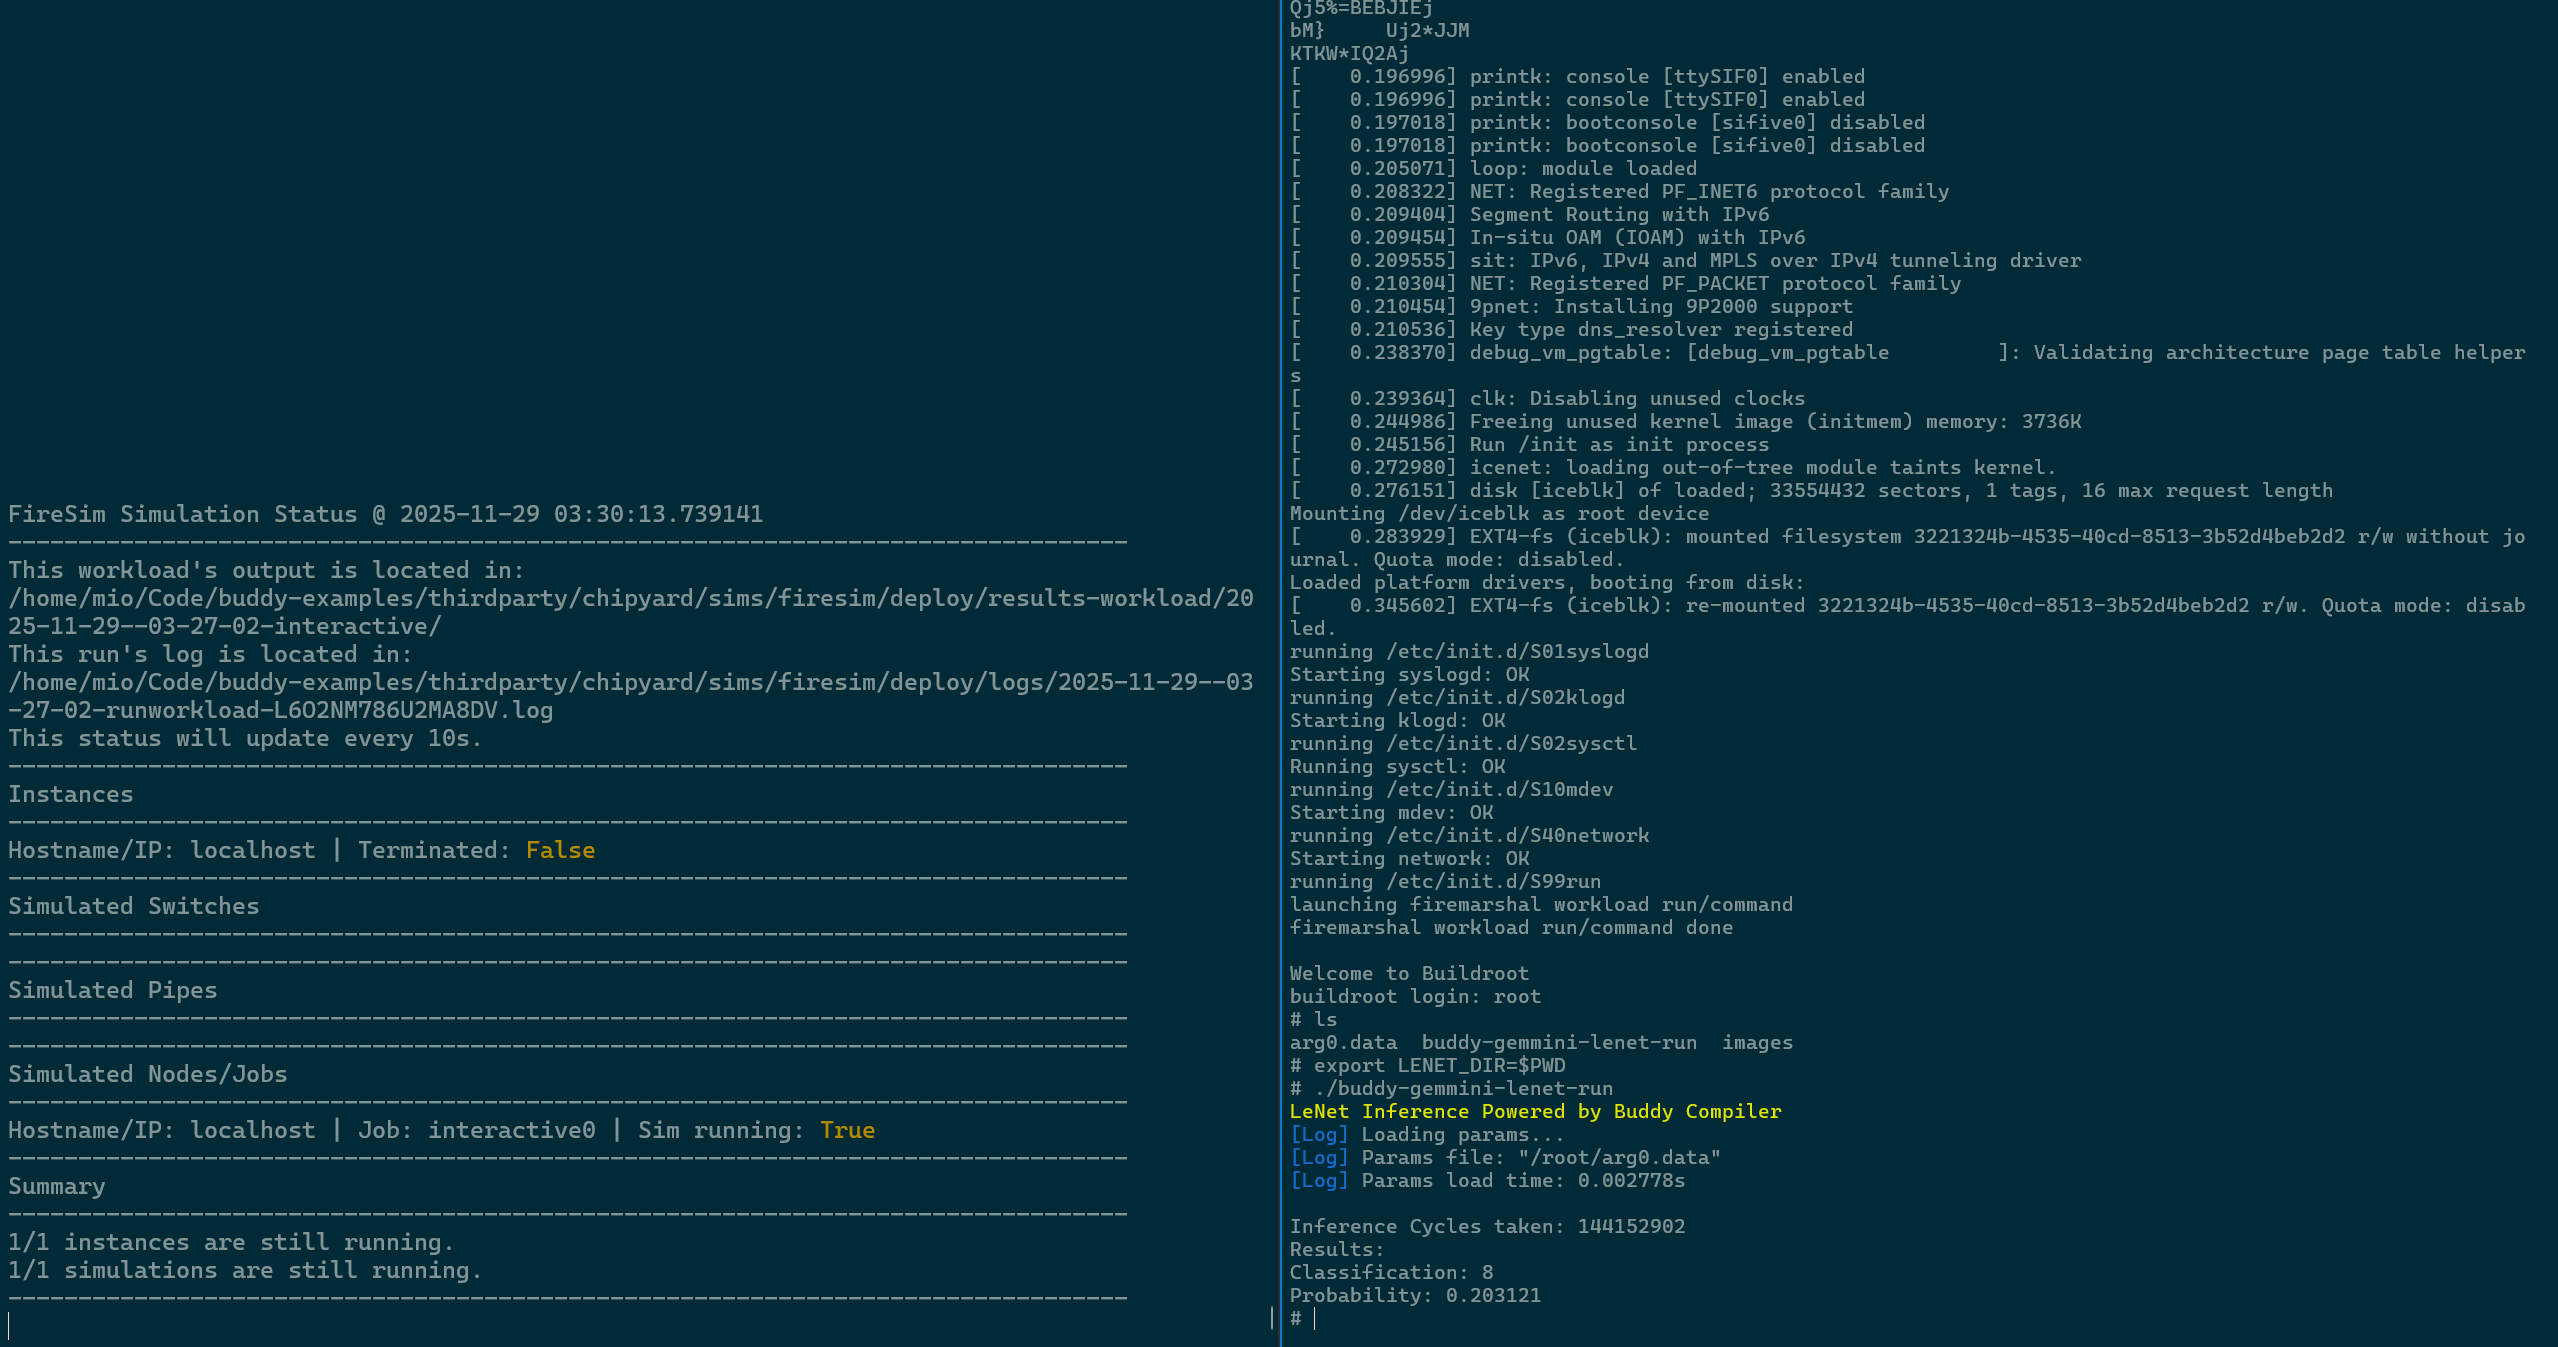
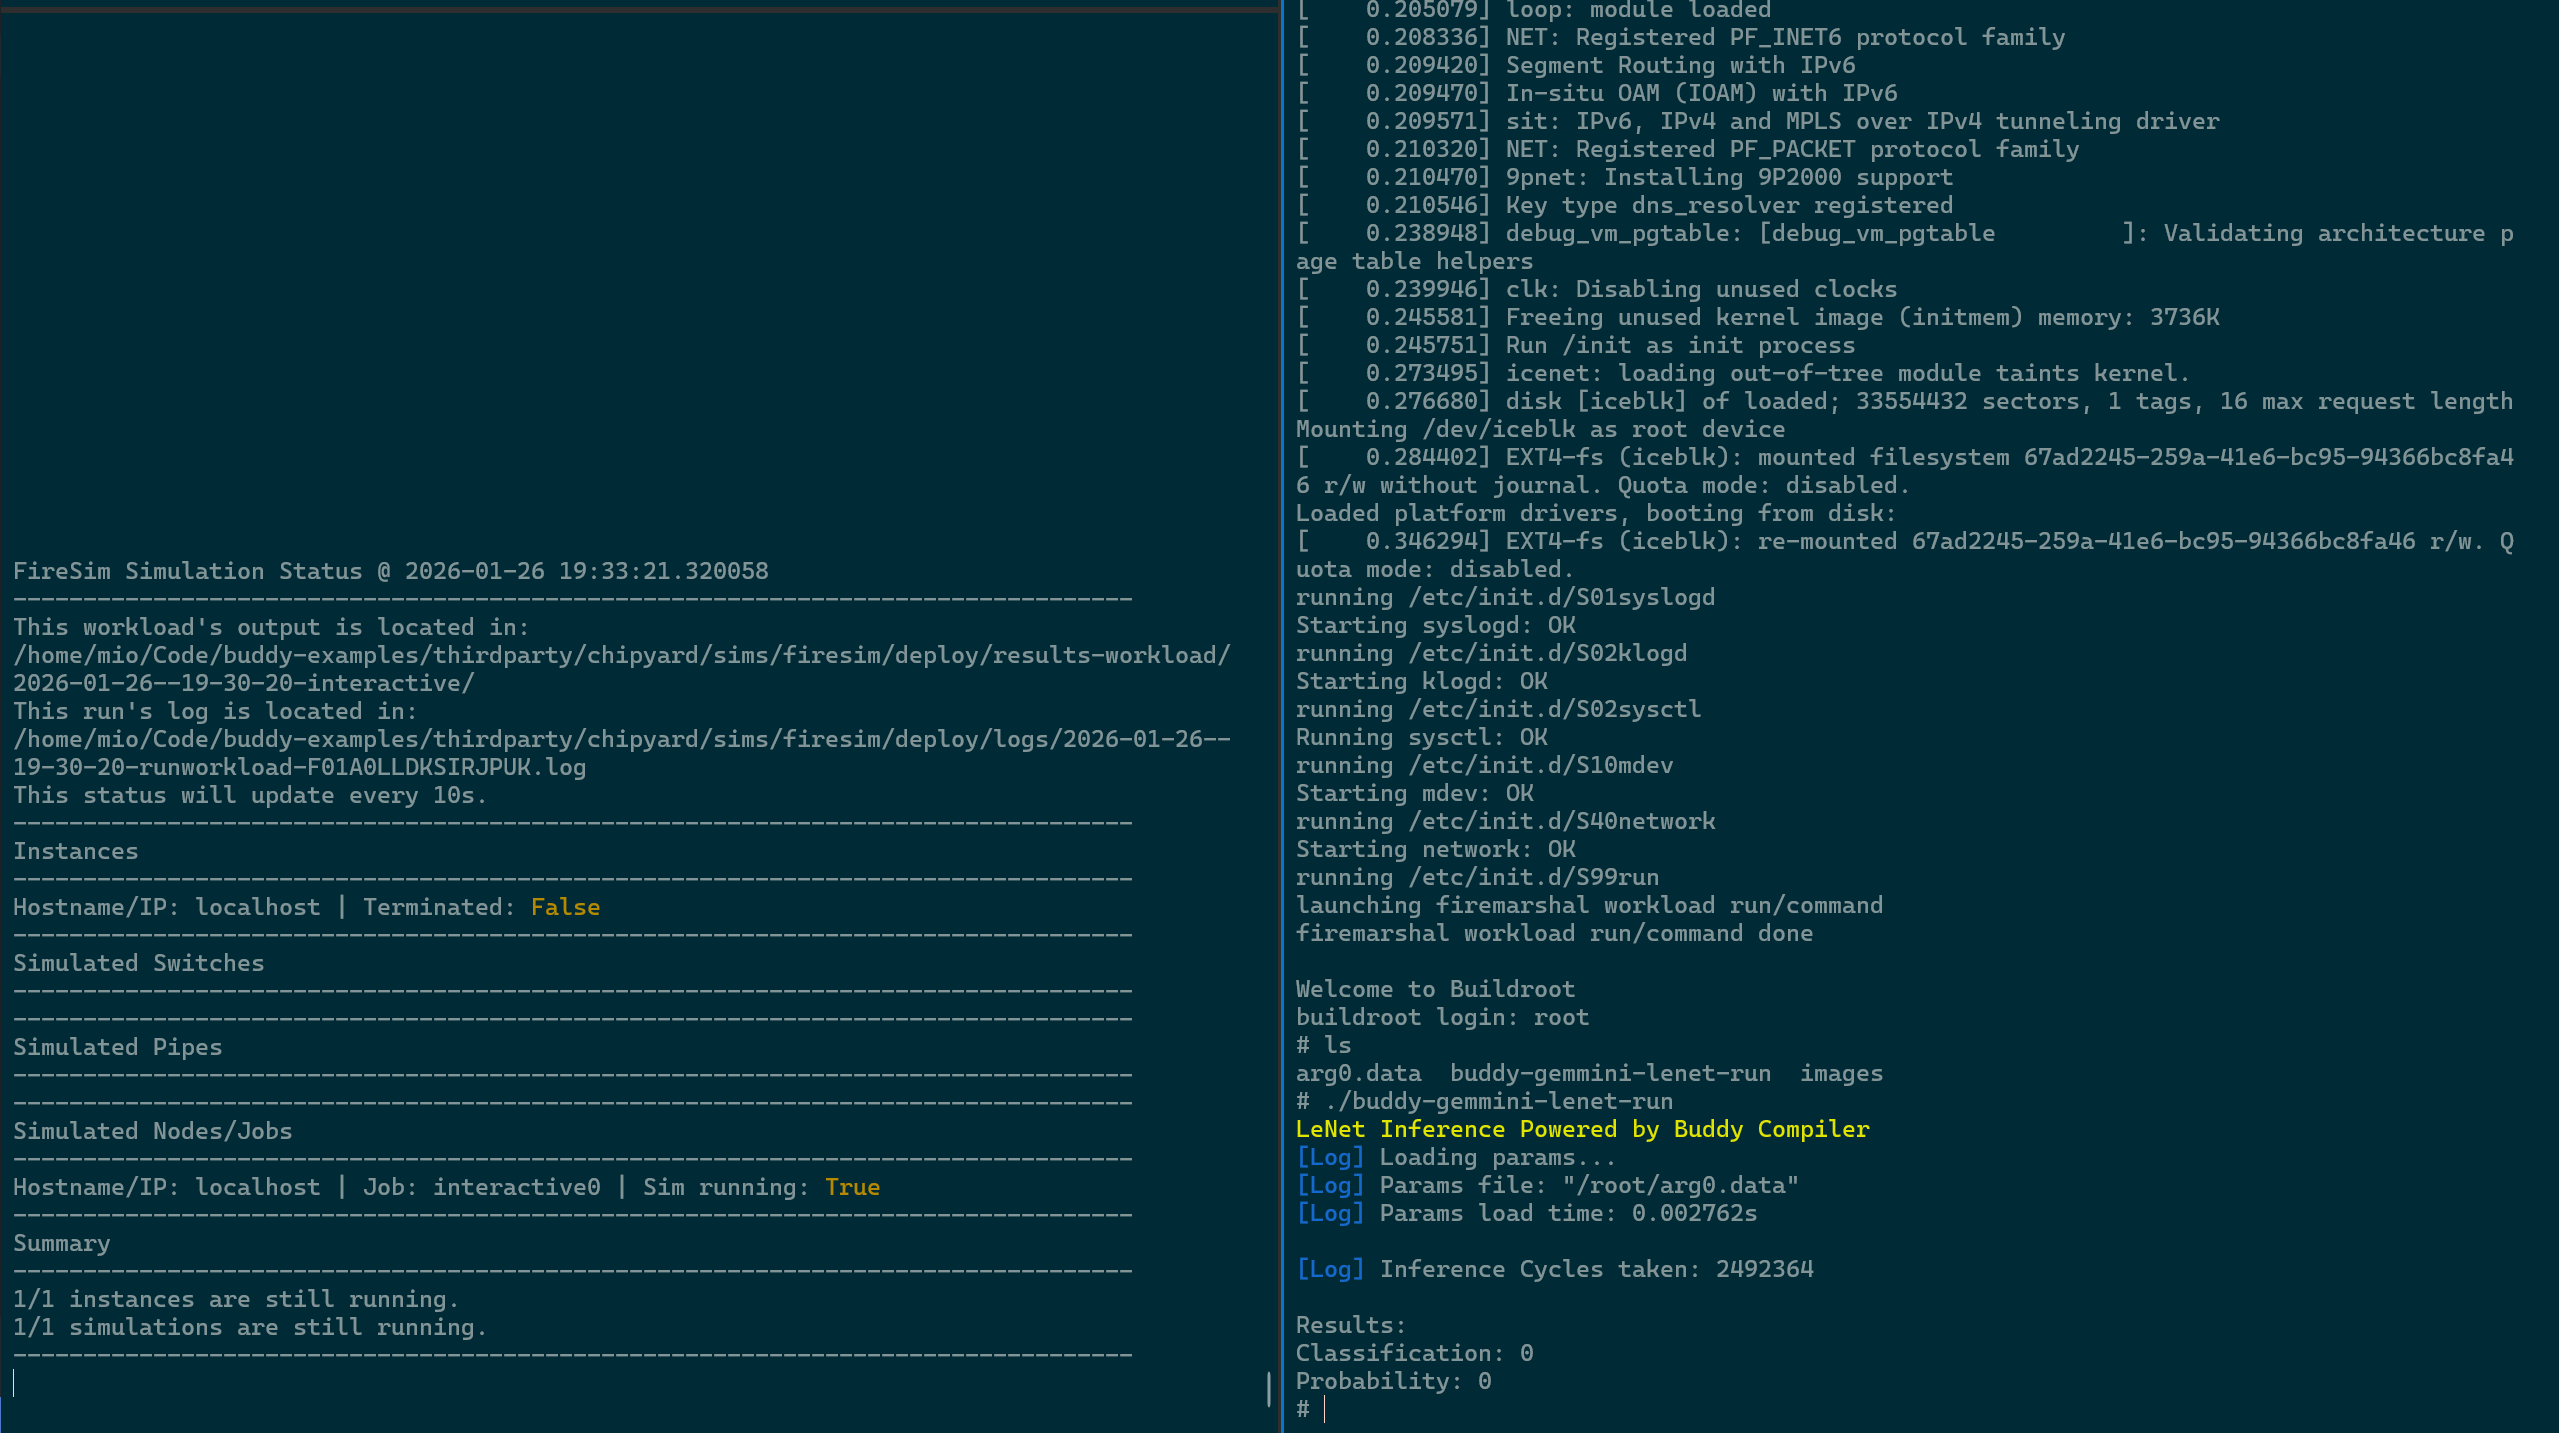
[models] fix: fix a lot of bug to lower Conv2DNhwcFhwcOp to gemmini

Changed region(s): [[0.0, 0.0, 0.9883, 0.9978], [0.8339, 0.1559, 0.9883, 0.1871]]

diff --git a/models/models/ResNet18/buddy-resnet-main.cpp b/models/models/ResNet18/buddy-resnet-main.cpp
@@ -14,6 +14,7 @@
 //
 //===----------------------------------------------------------------------===//
 
+#include "include/testutils.h"
 #include <buddy/Core/Container.h>
 #include <buddy/DIP/DIP.h>
 #include <buddy/DIP/ImgContainer.h>
@@ -128,13 +129,10 @@ int main() {
   MemRef<float, 1> paramsContainer({ParamsSize});
   loadParameters(paramsDir, paramsContainer);
 
-  const auto inferStart = std::chrono::high_resolution_clock::now();
-  // Call the forward function of the model.
-  _mlir_ciface_forward(&output, &paramsContainer, &inputResize);
-  const auto inferEnd = std::chrono::high_resolution_clock::now();
-
-  const std::chrono::duration<double, std::milli> inferTime =
-      inferEnd - inferStart;
+  unsigned long start = read_cycles();
+  _mlir_ciface_forward(&output, &paramsContainer, &inputResize);  
+  unsigned long end = read_cycles();
+  std::cout << "Cycle count: " << end - start << std::endl;
 
   auto out = output.getData();
   softmax(out, 1000);
@@ -150,9 +148,6 @@ int main() {
   std::cout << "Classification Index: " << maxIdx << std::endl;
   std::cout << "Classification: " << getLabel(maxIdx) << std::endl;
   std::cout << "Probability: " << maxVal << std::endl;
-
-  printLogLabel();
-  std::cout << "Inference time: " << inferTime.count() / 1000 << std::endl;
 
   return 0;
 }

diff --git a/models/models/MobileNetV3/include/testutils.h b/models/models/MobileNetV3/include/testutils.h
@@ -1,0 +1,13 @@
+#ifndef TESTUTILS_H
+#define TESTUTILS_H
+
+#include <stdint.h>
+
+// profile tool
+static inline uint64_t read_cycles() {
+  uint64_t cycles;
+  asm volatile("rdcycle %0" : "=r"(cycles));
+  return cycles;
+}
+
+#endif // TESTUTILS_H

diff --git a/models/models/ResNet18/include/testutils.h b/models/models/ResNet18/include/testutils.h
@@ -1,0 +1,13 @@
+#ifndef TESTUTILS_H
+#define TESTUTILS_H
+
+#include <stdint.h>
+
+// profile tool
+static inline uint64_t read_cycles() {
+  uint64_t cycles;
+  asm volatile("rdcycle %0" : "=r"(cycles));
+  return cycles;
+}
+
+#endif // TESTUTILS_H

diff --git a/models/models/MobileNetV3/buddy-mobilenetv3-main.cpp b/models/models/MobileNetV3/buddy-mobilenetv3-main.cpp
@@ -14,6 +14,7 @@
 //
 //===----------------------------------------------------------------------===//
 
+#include "include/testutils.h"
 #include <buddy/Core/Container.h>
 #include <buddy/DIP/DIP.h>
 #include <buddy/DIP/ImgContainer.h>
@@ -127,8 +128,12 @@ int main() {
   std::string paramsDir = mobilenetDir + "/arg0.data";
   MemRef<float, 1> paramsContainer({ParamsSize});
   loadParameters(paramsDir, paramsContainer);
+  
+  unsigned long start = read_cycles();
   // Call the forward function of the model.
   _mlir_ciface_forward(&output, &paramsContainer, &inputResize);
+  unsigned long end = read_cycles();
+  std::cout << "Cycle count: " << end - start << std::endl;
 
   auto out = output.getData();
   softmax(out, 1000);

diff --git a/README.md b/README.md
@@ -151,6 +151,7 @@ $ ./buddy-gemmini-resnet-run
 
 If all steps go well, you will see the output below. Good luck.
 
+![demo](docs/example2-resnet-gemmini/demo.png)
 
 ### Example 3: MobileNetv3-Gemmini
 1. Build Workloads
@@ -238,10 +239,6 @@ Now, you can login to the system! The username is root and there is no password.
 $ ./buddy-gemmini-bert-run
 ```
 
-If all steps go well, you will see the output below. Good luck.
-
-
-
 ### Example 5: StableDiffusion-Gemmini
 
 **Notes** This model needs to download weights from Hugging Face. Please make sure your environment variables are configured correctly so that Hugging Face can be accessed normally.
@@ -283,10 +280,6 @@ Now, you can login to the system! The username is root and there is no password.
 ```bash
 $ ./buddy-gemmini-stablediffusion-run
 ```
-
-If all steps go well, you will see the output below. Good luck.
-
-
 
 ### Example 6: Llama2-Gemmini
 
@@ -330,11 +323,6 @@ Now, you can login to the system! The username is root and there is no password.
 $ ./buddy-gemmini-llama2-run
 ```
 
-If all steps go well, you will see the output below. Good luck.
-
-
-
-
 ### Example 7: DeepSeekr1-Gemmini
 
 **Notes** This model needs to download weights from Hugging Face. Please make sure your environment variables are configured correctly so that Hugging Face can be accessed normally.
@@ -377,5 +365,3 @@ Now, you can login to the system! The username is root and there is no password.
 ```bash
 $ ./buddy-gemmini-deepseekr1-run
 ```
-
-If all steps go well, you will see the output below. Good luck.